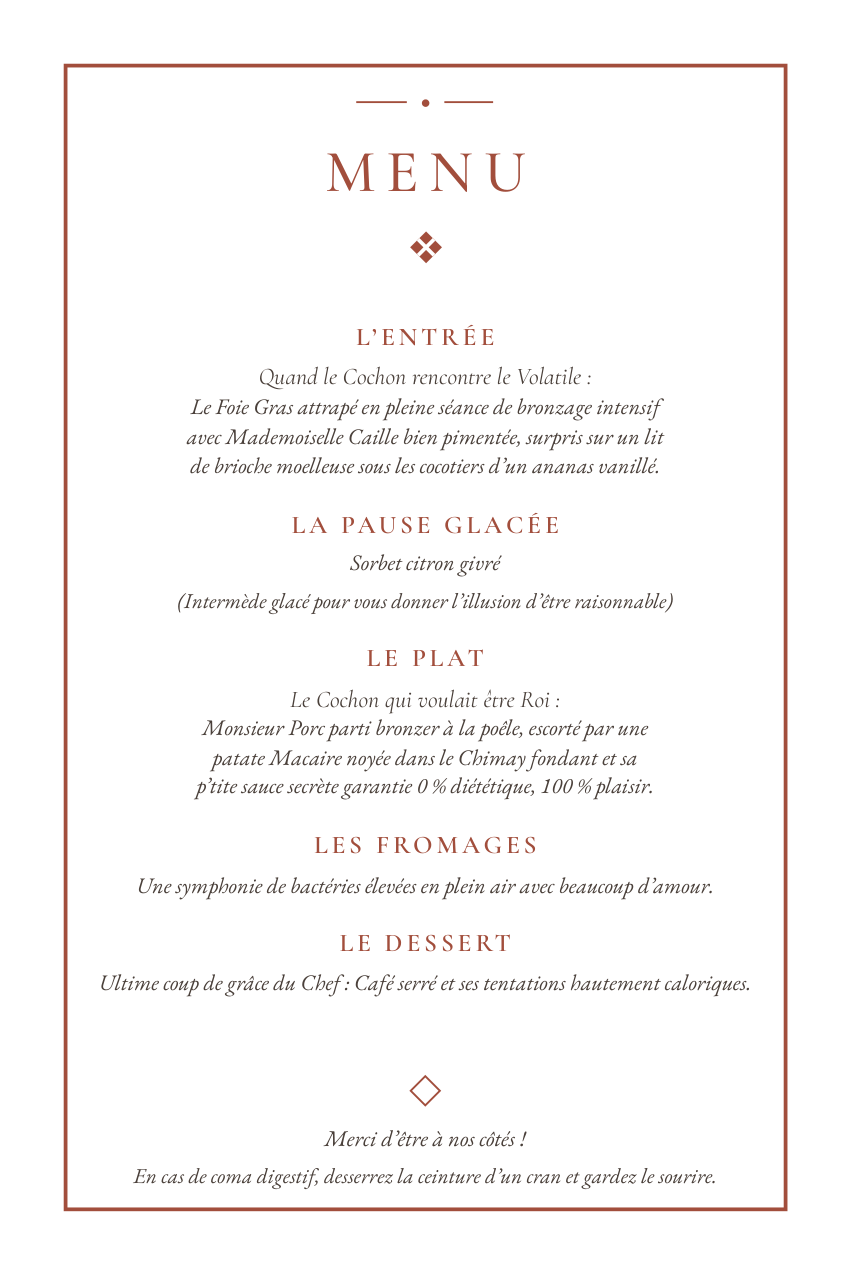
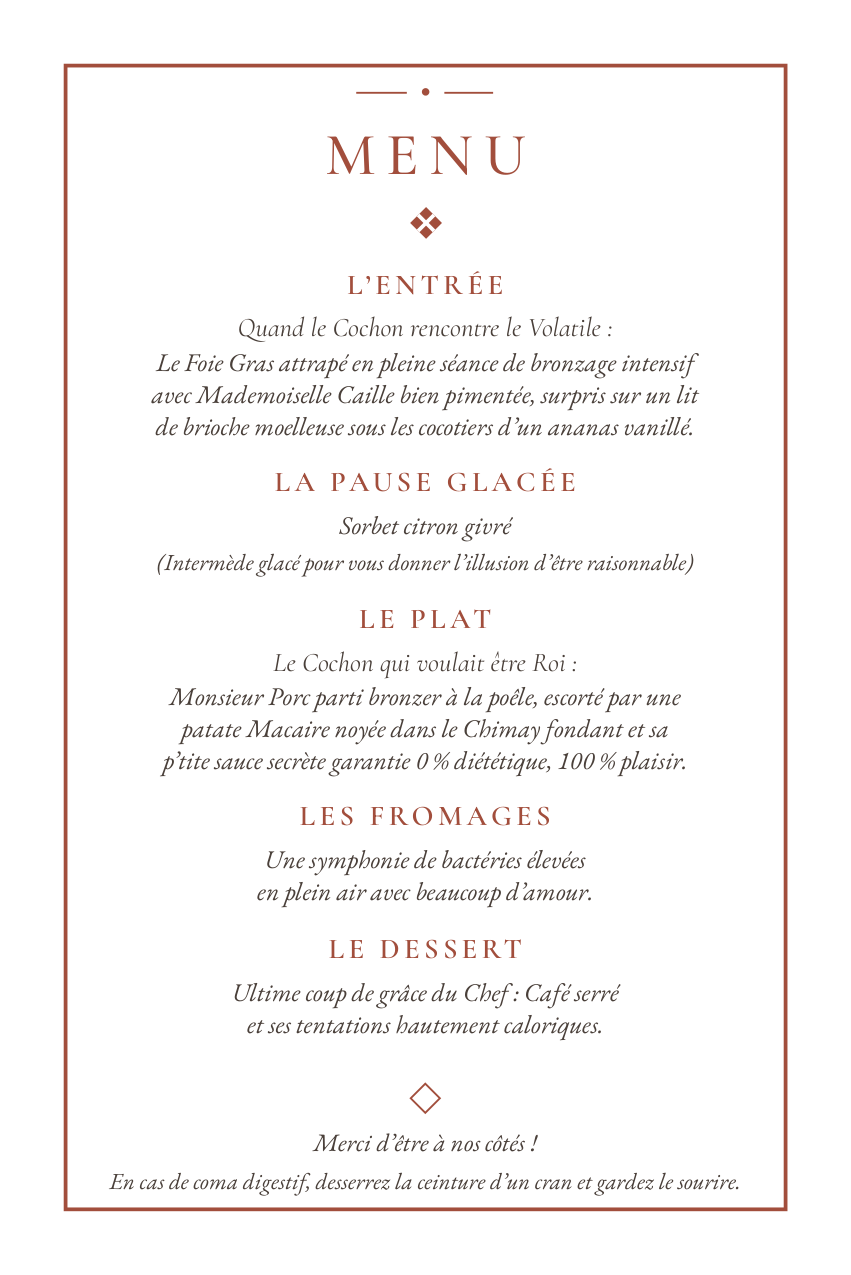
feat(menu): agrandir les titres et textes des plats pour la lisibilité imprimée
Titres de plat 10.2 → 11.5 pt, noms 9.6 → 10.8 pt, descriptions 8.9 → 10.2 pt,
notes 8.5 → 9.2 pt, conclusion 9 → 10 pt. Espacements verticaux resserrés
pour rester dans la marge de 8 mm. Exemple et aperçus régénérés.

diff --git a/moteur/composer.py b/moteur/composer.py
@@ -99,7 +99,7 @@ body{{
 }}
 .menu{{
   position:relative; width:{largeur}mm; height:{hauteur}mm;
-  padding:13mm 13.5mm 12mm; display:flex; flex-direction:column;
+  padding:11.5mm 13.5mm 11mm; display:flex; flex-direction:column;
   align-items:center; text-align:center;
 }}
 .cadre{{
@@ -108,13 +108,13 @@ body{{
 }}
 .entete{{ flex:none; width:100%; }}
 .motif{{
-  width:24mm; height:3mm; margin:0 auto 4.2mm; display:flex;
+  width:24mm; height:3mm; margin:0 auto 3.2mm; display:flex;
   align-items:center; justify-content:center; gap:2.1mm; color:var(--decoration);
 }}
 .motif .trait{{ width:7mm; border-top:.65pt solid currentColor; }}
 .motif .point{{ width:1.15mm; height:1.15mm; border-radius:50%;
                background:currentColor; }}
-.motif-bas{{ width:7mm; margin:4.2mm auto 0; transform:rotate(45deg); }}
+.motif-bas{{ width:7mm; margin:3mm auto 0; transform:rotate(45deg); }}
 .motif-bas .trait{{ display:none; }}
 .motif-bas .point{{ width:3.2mm; height:3.2mm; border-radius:0;
                    background:transparent; border:.7pt solid currentColor;
@@ -132,7 +132,7 @@ h1{{
   letter-spacing:.08em;
 }}
 .losange{{
-  width:3.3mm; height:3.3mm; margin:4.8mm auto 0; position:relative;
+  width:3.3mm; height:3.3mm; margin:3.8mm auto 0; position:relative;
   transform:rotate(45deg); background:var(--decoration);
 }}
 .losange::before,.losange::after{{ content:""; position:absolute; background:white; }}
@@ -140,24 +140,24 @@ h1{{
 .losange::after{{ top:1.35mm; left:0; height:.55mm; width:100%; }}
 .plats{{
   width:100%; flex:1; display:flex; flex-direction:column;
-  justify-content:center; gap:4.1mm; padding:4.5mm 0 3mm;
+  justify-content:center; gap:3.5mm; padding:2.5mm 0 1.5mm;
 }}
 .plat{{ break-inside:avoid; }}
 .plat h2{{
-  color:var(--accent); font-size:10.2pt; line-height:1.15; font-weight:600;
-  letter-spacing:.15em; text-indent:.15em; margin:0 0 1.6mm;
+  color:var(--accent); font-size:11.5pt; line-height:1.15; font-weight:600;
+  letter-spacing:.15em; text-indent:.15em; margin:0 0 1.4mm;
 }}
-.plat p{{ margin:0; line-height:1.3; text-wrap:balance; }}
+.plat p{{ margin:0; line-height:1.26; text-wrap:balance; }}
 .nom{{
   font-family:var(--titres); font-weight:400; font-style:italic;
-  font-size:9.6pt;
+  font-size:10.8pt;
 }}
-.description{{ font-size:8.9pt; }}
-.note{{ font-size:8.5pt; margin-top:1mm !important; }}
+.description{{ font-size:10.2pt; }}
+.note{{ font-size:9.2pt; margin-top:1mm !important; }}
 .conclusion{{ flex:none; width:100%; min-height:15mm; }}
 .conclusion p{{ margin:0; line-height:1.3; text-wrap:balance; }}
-.conclusion .message{{ font-size:9pt; margin-top:3.5mm; }}
-.conclusion .note{{ font-size:8.5pt; margin-top:1.2mm !important; }}
+.conclusion .message{{ font-size:10pt; margin-top:2.5mm; }}
+.conclusion .note{{ font-size:9.2pt; margin-top:1.2mm !important; }}
 """
 
 
